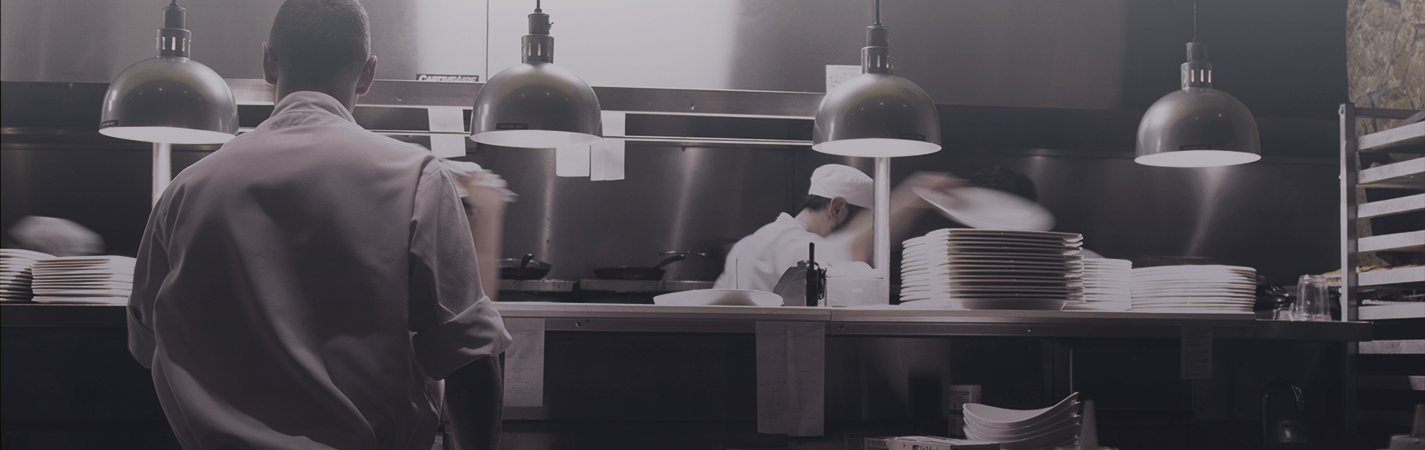
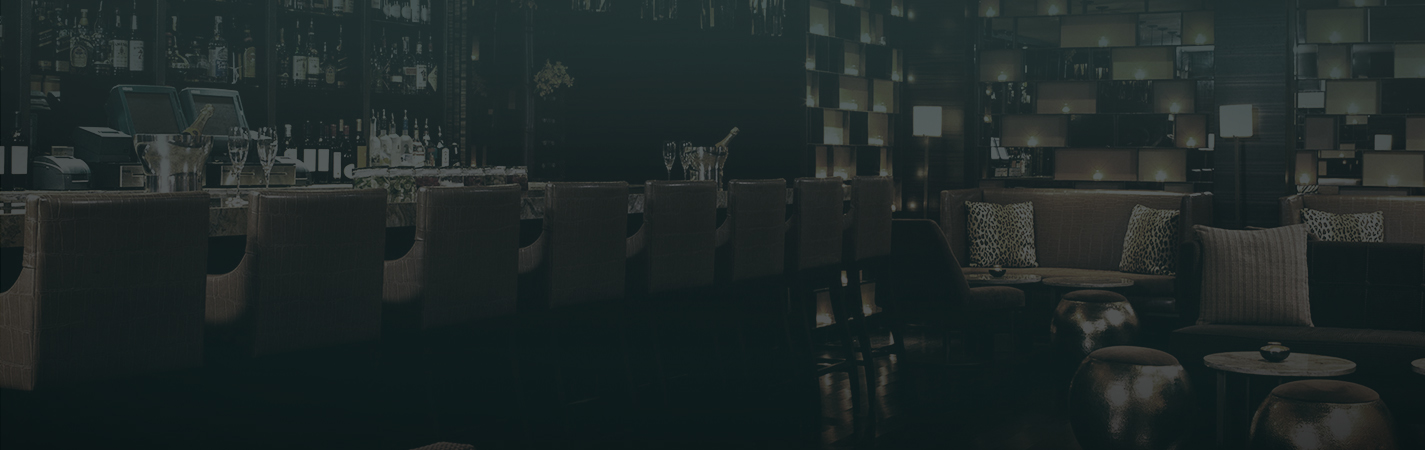
changed the background images of the top image thing as well as the our story section

diff --git a/src/components/Hours.js b/src/components/Hours.js
@@ -1,0 +1,76 @@
+import React from 'react'
+
+var styles = {
+	container: {
+		height: '650px',
+		width: '100%',
+		paddingTop: '250px'
+	},
+	title: {
+		color: 'white',
+		fontFamily: 'Great Vibes',
+		fontSize: '70px',
+		borderBottom: '4px solid #59E4DF',
+		margin: 'auto',
+		marginBottom: '30px',
+		width: '317px'
+	},
+	list: {
+		display: 'flex',
+		justifyContent: 'center',
+		padding: 0,
+		border: '2px dashed rgba(89, 228, 223, 0.5)',
+		width: '470px',
+		margin: 'auto',
+		height: '60px'
+	},
+	heading: {
+		color: 'white',
+		margin: 0,
+		fontWeight: 'bold',
+		fontSize: '15px',
+		marginTop: '10px'
+	},
+	times: {
+		color: 'white',
+		margin: 0,
+		fontSize: '12px'
+	},
+	listItem: {
+		textAlign: 'center',
+		margin: '0 15px'
+	}
+}
+
+export default React.createClass({
+	render() {
+		return (
+			<div style={styles.container} id="bisHoursSection">
+
+				<p style={styles.title}>We're Open!</p>
+				<ul style={styles.list}>
+					<li style={styles.listItem}>
+						<h1 style={styles.heading}>Lunch</h1>
+						<p style={styles.times}>11 am - 2:30 pm</p>
+					</li>
+
+					<li style={styles.listItem}>
+						<h1 style={styles.heading}>Afternoon</h1>
+						<p style={styles.times}>2:30 pm - 5 pm</p>
+					</li>
+
+					<li style={styles.listItem}>
+						<h1 style={styles.heading}>Dinner</h1>
+						<p style={styles.times}>5 pm - 11 pm</p>
+					</li>
+
+					<li style={styles.listItem}>
+						<h1 style={styles.heading}>Late Night</h1>
+						<p style={styles.times}>11 pm - 2 am</p>
+					</li>
+				</ul>
+
+			</div>
+		)
+	}
+})

diff --git a/src/components/News.js b/src/components/News.js
@@ -38,7 +38,23 @@ var styles = {
 		width: '300px',
 		borderRadius: '50%',
 		marginLeft: '150px',
-		boxShadow: '0 0 60px rgba(0,0,0,0.2)'
+		boxShadow: '0 0 60px rgba(0,0,0,0.2)',
+	},
+	icon: {
+		fontSize: '12px',
+		color: '#02423f',
+		fontWeight: 'lighter'
+	},
+	readmore: {
+		marginLeft: '350px',
+		textAlign: 'center',
+		color: '#02423f',
+		backgroundColor: 'white',
+		textDecoration: 'none',
+		fontSize: '12px',
+		fontWeight: 'lighter',
+		padding: '5px 7px',
+		fontFamily: 'system-ui'
 	}
 }
 
@@ -53,9 +69,14 @@ export default React.createClass({
 						<div id="grandOpeningPic" style={styles.picBox}></div>
 					</div>
 
-					<p style={styles.text}>
-						Lorem ipsum dolor sit amet, consectetur adipisicing elit. Eligendi placeat inventore repudiandae ipsa sunt ab accusantium, ex nihil, odio quisquam at. Recusandae perspiciatis aliquid atque veritatis sapiente illo, autem vitae!
-					</p>
+					<div>
+						<p style={styles.text}>
+							Lorem ipsum dolor sit amet, consectetur adipisicing elit. Eligendi placeat inventore repudiandae ipsa sunt ab accusantium, ex nihil, odio quisquam at. Recusandae perspiciatis aliquid atque veritatis sapiente illo, autem vitae!
+						</p>
+
+						<a style={styles.readmore} href="">Read More <i className="fa fa-angle-right" aria-hidden="true"></i>
+</a>
+					</div>
 				</div>
 			</div>
 		)

diff --git a/src/components/App.js b/src/components/App.js
@@ -1,5 +1,6 @@
 import React from 'react';
 import Banner from './Banner'
+import Hours from './Hours'
 import News from './News'
 import OurStory from './OurStory'
 import Menu from './Menu'
@@ -7,6 +8,7 @@ import Directions from './Directions'
 import Reservations from './Reservations'
 import Catering from './Catering'
 import Footer from './Footer'
+
 
 var styles = {
 	main: {
@@ -25,7 +27,7 @@ export default React.createClass({
     return (
 		    <div style={styles.main}>
 					<Banner />
-					<img style={styles.mainPic} src={require('../assets/dark-main-pic.jpg')} />
+					<Hours />
 
 					<News />
 					<OurStory />

diff --git a/src/index.css b/src/index.css
@@ -110,7 +110,7 @@ body {
 }
 
 #ourStoryContainer {
-	background-image: url('./assets/design-images/ourstory-new.jpg')
+	background-image: url('./assets/design-images/ourstory-dark.jpg')
 }
 
 #newsContainer {
@@ -119,6 +119,10 @@ body {
 
 #grandOpeningPic {
 	background-image: url('./assets/design-images/grand-opening.jpg');
+}
+
+#bisHoursSection {
+	background-image: url('./assets/dark-main-pic.jpg');
 }
 
 select {
